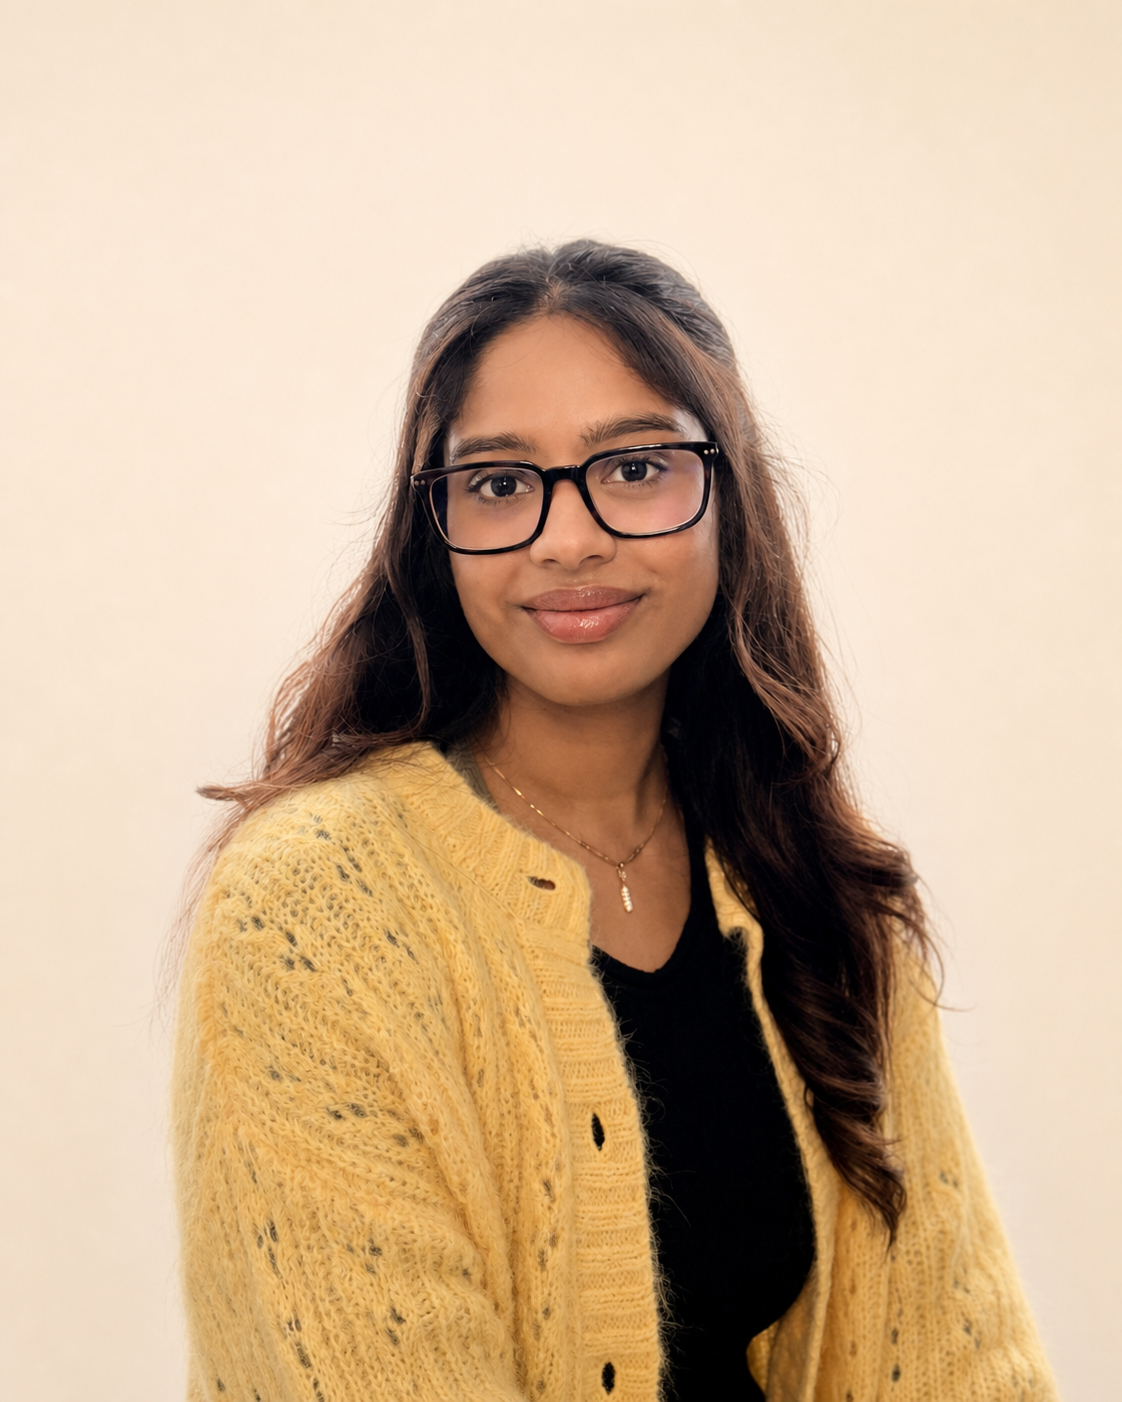
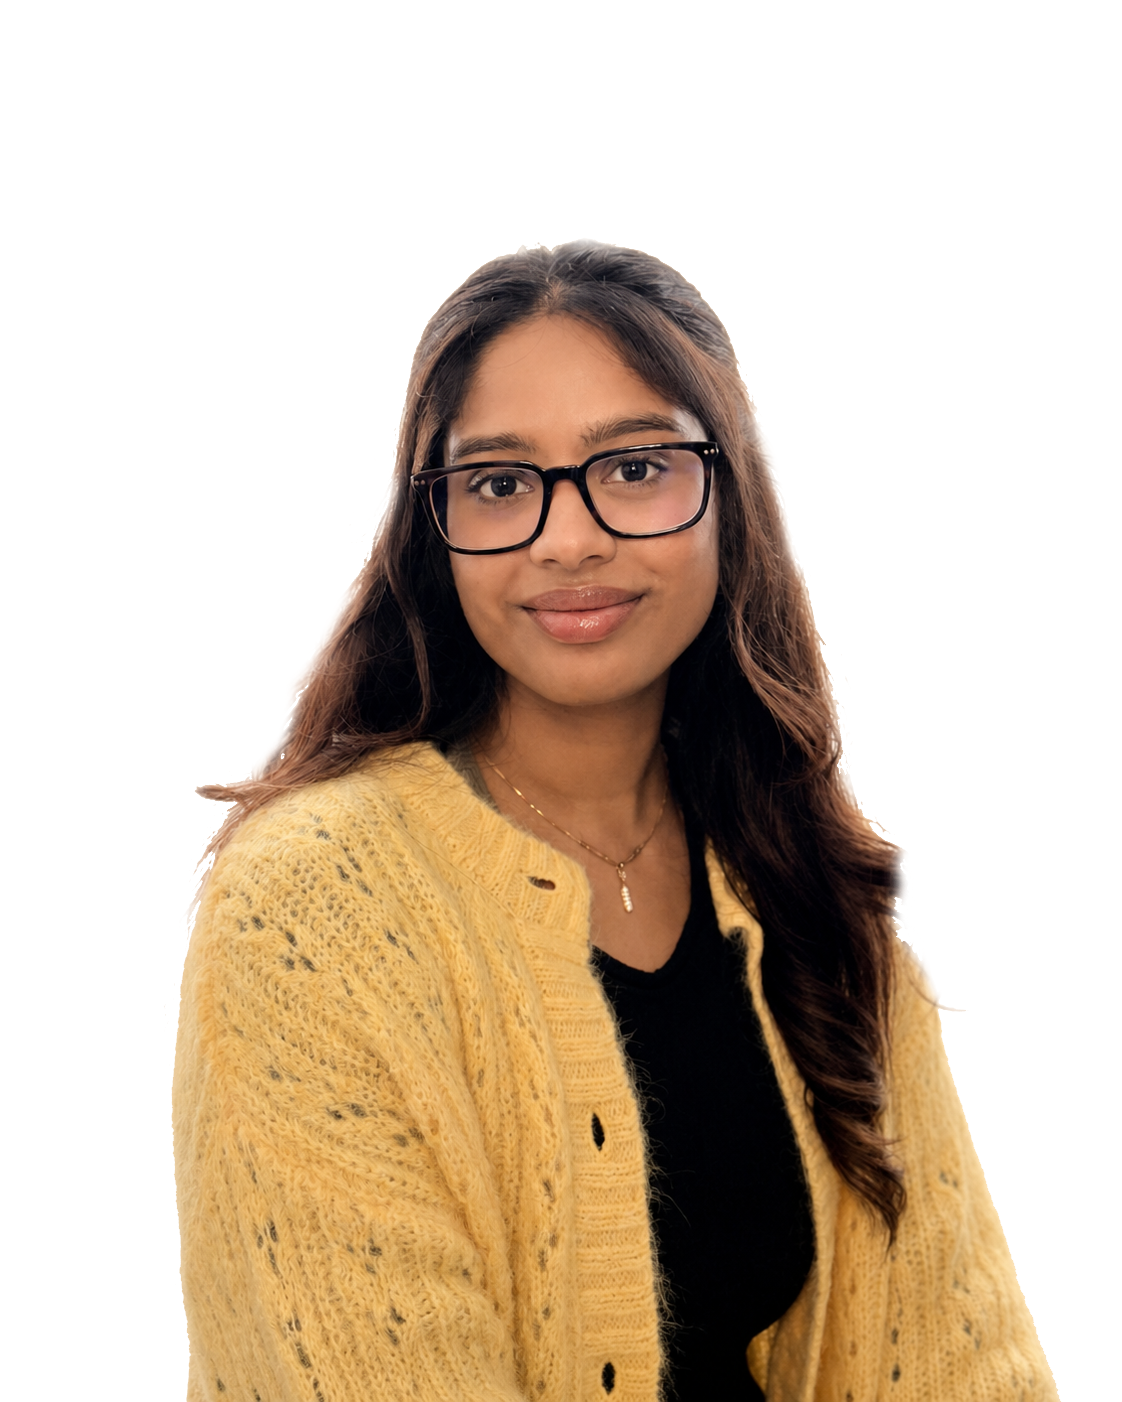
Restore viewport reveal animations and update headshot

diff --git a/src/main.jsx b/src/main.jsx
@@ -1,9 +1,34 @@
-import React, { useState } from 'react';
+import React, { useEffect, useRef, useState } from 'react';
 import { createRoot } from 'react-dom/client';
 import './styles.css';
 
 const EMAIL = 'theekshitha@unravelcounselling.com';
 const BOOKING_URL = `mailto:${EMAIL}`;
+
+function useReveal(threshold = 0.12) {
+  const ref = useRef(null);
+  const [visible, setVisible] = useState(false);
+
+  useEffect(() => {
+    const element = ref.current;
+    if (!element) return undefined;
+    const observer = new IntersectionObserver(([entry]) => {
+      if (entry.isIntersecting) {
+        setVisible(true);
+        observer.disconnect();
+      }
+    }, { threshold });
+    observer.observe(element);
+    return () => observer.disconnect();
+  }, [threshold]);
+
+  return { ref, visible };
+}
+
+function Reveal({ children, className = '', delay = 0, threshold = 0.12 }) {
+  const { ref, visible } = useReveal(threshold);
+  return <div ref={ref} className={`reveal ${visible ? 'reveal--visible' : ''} ${className}`} style={{ '--reveal-delay': `${delay}s` }}>{children}</div>;
+}
 
 function Ghost({ children, align = 'left' }) {
   return <span className={`ghost ghost--${align}`} aria-hidden="true">{children}</span>;
@@ -20,11 +45,11 @@ function Direction03() {
   const trainings = ['EMDR Basic Trained', 'ACT Immersion', 'Gottman Level 1'];
   return <div className="site">
     <Nav />
-    <section className="hero" id="home"><div className="hero__photo"><img src="/hero-texture.jpg" alt="Textured abstract artwork in moss, ochre, and earth tones" /></div><Ghost>UNRAVEL</Ghost><div className="hero__content"><h1>Begin with<br />what is here.<br /><em>Discover</em> what<br />is possible.</h1><a className="button button--dark" href={BOOKING_URL}>Book a free consultation <span>↗</span></a></div><div className="marquee"><div className="marquee-track"><span>NOTICE · UNDERSTAND · ACCEPT · CHOOSE · UNRAVEL · BEGIN ·</span><span aria-hidden="true">NOTICE · UNDERSTAND · ACCEPT · CHOOSE · UNRAVEL · BEGIN ·</span></div></div></section>
-    <section className="approach" id="approach"><Ghost>THREAD</Ghost><div className="section-kicker light"><span className="spin-slow">✦</span> &nbsp; 02 — How we work</div><div className="approach__cards">{[['Listen inward', 'We begin with curiosity about the different parts of you—including the ones that feel anxious, critical, overwhelmed, or protective. Nothing needs to be pushed away.'], ['Understand what repeats', 'Together, we notice the thoughts, emotions, and relationship patterns that keep drawing you into familiar places. Understanding the pattern can create room for a different response.'], ['Move at your pace', 'When past experiences are still shaping the present, we work gently and collaboratively. EMDR may be used when it fits, always with attention to safety, choice, and readiness.']].map(([title, text]) => <article className="approach__card" key={title}><i /><h3>{title}</h3><p>{text}</p></article>)}</div><p className="approach__note">An integrative approach drawing from IFS, ACT, EFT, person-centred and existential therapy, trauma-informed care, EMDR, and practical CBT tools.</p></section>
-    <section className="about" id="about"><Ghost align="right">SELF</Ghost><div className="section-kicker"><span className="spin-slow">✦</span> &nbsp; 03 — About</div><div className="about__grid"><div className="portrait"><img src="/therapist-headshot.png" alt="Theekshitha Vadladi, counsellor" /><h2>Theekshitha Vadladi</h2><p>she/her</p></div><div className="about__copy"><h2>Your counsellor</h2><div className="credential">CCC-Qualifying · Masters of Counselling Psychology</div><p>I work with individuals navigating anxiety, trauma, relationship patterns, self-worth, and experiences that can be hard to name. Therapy is a place to meet yourself with more honesty and less judgment—including the parts that protect, please, avoid, or shut down.</p><p>Together, we gently unravel what no longer fits, deepen trust in yourself, and make room for choices guided by your values.</p><div className="trainings"><h3>Trainings</h3><div className="training-row"><button onClick={() => setTraining((training + 2) % 3)} aria-label="Previous training">←</button><span>{trainings[training]}</span><button onClick={() => setTraining((training + 1) % 3)} aria-label="Next training">→</button></div><small>{training + 1} / 3</small></div></div></div></section>
-    <section className="practice" id="practice"><Ghost align="center">SPACE</Ghost><div className="practice__inner"><blockquote>Change does not begin with fixing who you are. It begins when what you carry is met with curiosity, compassion, and enough safety to be understood.</blockquote><div className="practice__copy"><div className="section-kicker"><span className="spin-slow">✦</span> &nbsp; Practice</div><h3>Based in Vancouver, BC.<br />Available online.</h3><p>Meet by secure video anywhere in British Columbia. Sessions are low cost, and on a sliding scale.</p><a href={BOOKING_URL}>See availability →</a></div></div></section>
-    <section className="cta" id="book"><Ghost align="center">ARRIVE</Ghost><div><h2>Ready when<br /><em>you are.</em></h2><a className="button button--dark" href={BOOKING_URL}>Book a free consultation</a></div></section>
+    <section className="hero" id="home"><div className="hero__photo"><img src="/hero-texture.jpg" alt="Textured abstract artwork in moss, ochre, and earth tones" /></div><Ghost>UNRAVEL</Ghost><Reveal className="hero__content" threshold={0.01}><h1>Begin with<br />what is here.<br /><em>Discover</em> what<br />is possible.</h1><a className="button button--dark" href={BOOKING_URL}>Book a free consultation <span>↗</span></a></Reveal><div className="marquee"><div className="marquee-track"><span>NOTICE · UNDERSTAND · ACCEPT · CHOOSE · UNRAVEL · BEGIN ·</span><span aria-hidden="true">NOTICE · UNDERSTAND · ACCEPT · CHOOSE · UNRAVEL · BEGIN ·</span></div></div></section>
+    <section className="approach" id="approach"><Ghost>THREAD</Ghost><Reveal className="approach__reveal"><div className="section-kicker light"><span className="spin-slow">✦</span> &nbsp; 02 — How we work</div><div className="approach__cards">{[['Listen inward', 'We begin with curiosity about the different parts of you—including the ones that feel anxious, critical, overwhelmed, or protective. Nothing needs to be pushed away.'], ['Understand what repeats', 'Together, we notice the thoughts, emotions, and relationship patterns that keep drawing you into familiar places. Understanding the pattern can create room for a different response.'], ['Move at your pace', 'When past experiences are still shaping the present, we work gently and collaboratively. EMDR may be used when it fits, always with attention to safety, choice, and readiness.']].map(([title, text]) => <article className="approach__card" key={title}><i /><h3>{title}</h3><p>{text}</p></article>)}</div><p className="approach__note">An integrative approach drawing from IFS, ACT, EFT, person-centred and existential therapy, trauma-informed care, EMDR, and practical CBT tools.</p></Reveal></section>
+    <section className="about" id="about"><Ghost align="right">SELF</Ghost><Reveal className="about__reveal"><div className="section-kicker"><span className="spin-slow">✦</span> &nbsp; 03 — About</div><div className="about__grid"><div className="portrait"><img src="/therapist-headshot.png" alt="Theekshitha Vadladi, counsellor" /><h2>Theekshitha Vadladi</h2><p>she/her</p></div><div className="about__copy"><h2>Your counsellor</h2><div className="credential">CCC-Qualifying · Masters of Counselling Psychology</div><p>I work with individuals navigating anxiety, trauma, relationship patterns, self-worth, and experiences that can be hard to name. Therapy is a place to meet yourself with more honesty and less judgment—including the parts that protect, please, avoid, or shut down.</p><p>Together, we gently unravel what no longer fits, deepen trust in yourself, and make room for choices guided by your values.</p><div className="trainings"><h3>Trainings</h3><div className="training-row"><button onClick={() => setTraining((training + 2) % 3)} aria-label="Previous training">←</button><span>{trainings[training]}</span><button onClick={() => setTraining((training + 1) % 3)} aria-label="Next training">→</button></div><small>{training + 1} / 3</small></div></div></div></Reveal></section>
+    <section className="practice" id="practice"><Ghost align="center">SPACE</Ghost><Reveal className="practice__reveal"><div className="practice__inner"><blockquote>Change does not begin with fixing who you are. It begins when what you carry is met with curiosity, compassion, and enough safety to be understood.</blockquote><div className="practice__copy"><div className="section-kicker"><span className="spin-slow">✦</span> &nbsp; Practice</div><h3>Based in Vancouver, BC.<br />Available online.</h3><p>Meet by secure video anywhere in British Columbia. Sessions are low cost, and on a sliding scale.</p><a href={BOOKING_URL}>See availability →</a></div></div></Reveal></section>
+    <section className="cta" id="book"><Ghost align="center"><span>ARRIVE</span></Ghost><Reveal><div><h2>Ready when<br /><em>you are.</em></h2><a className="button button--dark" href={BOOKING_URL}>Book a free consultation</a></div></Reveal></section>
     <footer><span>Unravel Counselling</span><span>Vancouver, BC · Canadian Certified Counsellor - Qualifying · CCPA · {EMAIL}</span></footer>
   </div>;
 }

diff --git a/src/styles.css b/src/styles.css
@@ -8,4 +8,5 @@
 @keyframes float-ghost{0%,100%{transform:translateY(0)}50%{transform:translateY(-16px)}}
 @keyframes spin-slow{from{transform:rotate(0)}to{transform:rotate(360deg)}}
 @keyframes rise{from{opacity:0;transform:translateY(20px)}to{opacity:1;transform:translateY(0)}}
+.reveal{opacity:0;transform:translateY(24px);transition:opacity 1.1s ease var(--reveal-delay,0s),transform 1.1s cubic-bezier(.22,1,.36,1) var(--reveal-delay,0s);will-change:opacity,transform}.reveal--visible{opacity:1;transform:translateY(0)}
 .nav__logo,.nav__links--desktop a{animation:nav-fade-in .7s ease both}.nav__links--desktop a:nth-child(2){animation-delay:.08s}.nav__links--desktop a:nth-child(3){animation-delay:.16s}.nav__links--desktop a:nth-child(4){animation-delay:.24s}.nav__links--mobile{animation:menu-slide-in .32s cubic-bezier(.22,1,.36,1) both}.hero__content h1{animation:rise 1.1s ease .1s both}.hero__content .button{animation:rise 1.1s ease .2s both}.ghost{animation:float-ghost 11s ease-in-out infinite}.spin-slow{display:inline-block;animation:spin-slow 18s linear infinite}.marquee-track{display:flex;width:max-content;animation:marquee 94s linear infinite}.marquee-track:hover{animation-play-state:paused}.marquee-track span{display:block;flex-shrink:0;padding-right:.6em}.approach__card{animation:rise 1.1s ease both}.approach__card:nth-child(2){animation-delay:.1s}.approach__card:nth-child(3){animation-delay:.2s}.approach__note{animation:rise 1.1s ease .3s both}.about__grid{animation:rise 1.1s ease .1s both}.practice__inner{animation:rise 1.1s ease both}.cta>div{position:relative;z-index:1;animation:rise 1.1s ease both}@media(prefers-reduced-motion:reduce){*,*::before,*::after{animation-duration:.01ms!important;animation-iteration-count:1!important;scroll-behavior:auto!important}}
